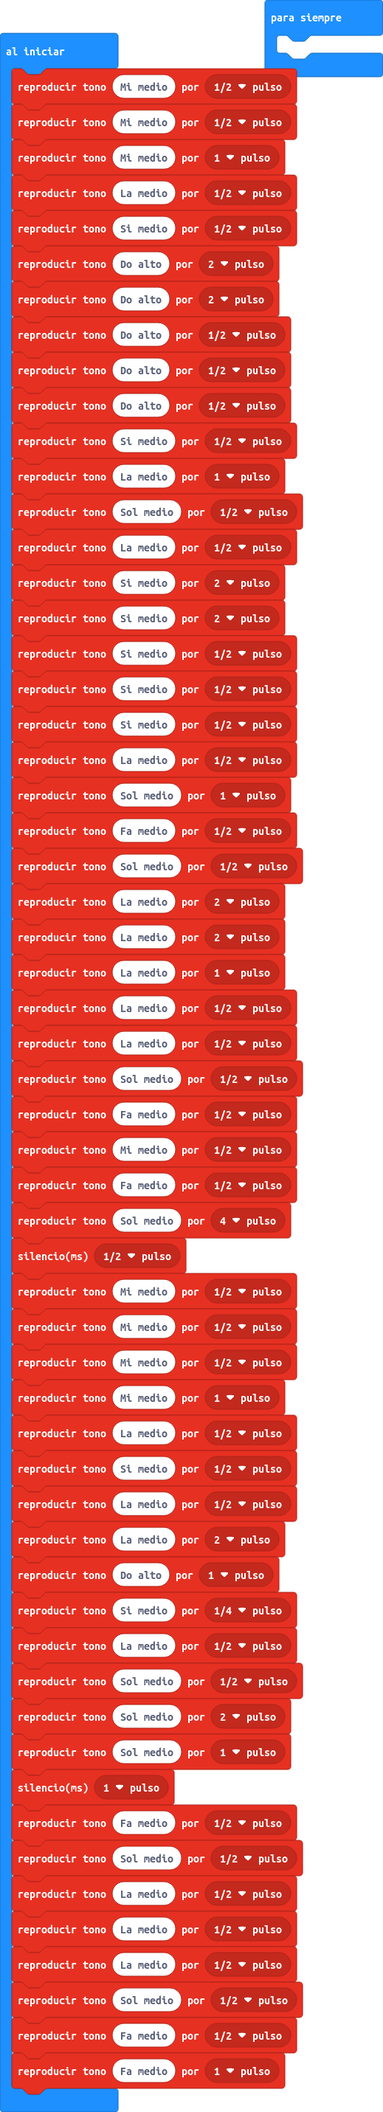
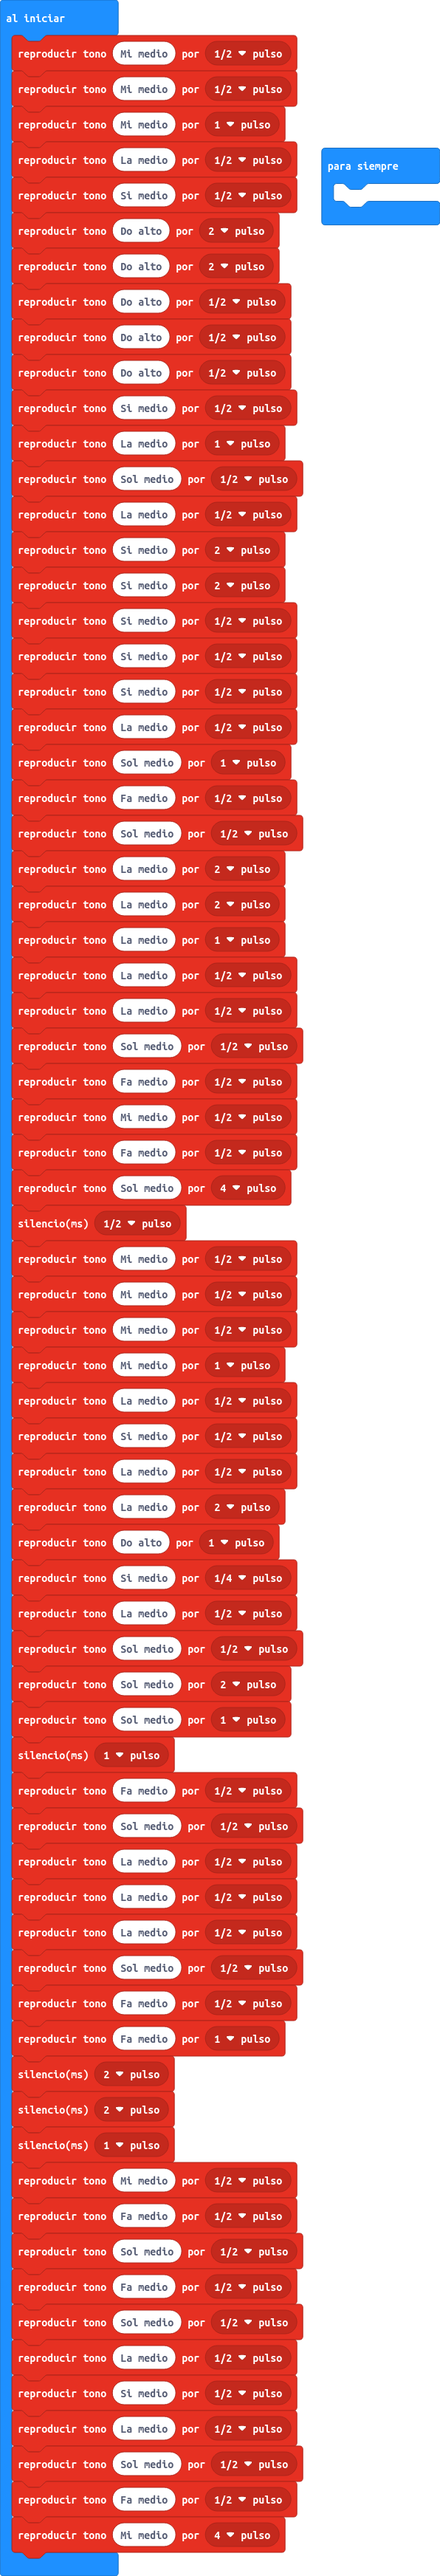
Actualizar pxt.json, main.blocks, main.ts

diff --git a/main.ts b/main.ts
@@ -55,6 +55,20 @@ music.playTone(440, music.beat(BeatFraction.Half))
 music.playTone(392, music.beat(BeatFraction.Half))
 music.playTone(349, music.beat(BeatFraction.Half))
 music.playTone(349, music.beat(BeatFraction.Whole))
+music.rest(music.beat(BeatFraction.Double))
+music.rest(music.beat(BeatFraction.Double))
+music.rest(music.beat(BeatFraction.Whole))
+music.playTone(330, music.beat(BeatFraction.Half))
+music.playTone(349, music.beat(BeatFraction.Half))
+music.playTone(392, music.beat(BeatFraction.Half))
+music.playTone(349, music.beat(BeatFraction.Half))
+music.playTone(392, music.beat(BeatFraction.Half))
+music.playTone(440, music.beat(BeatFraction.Half))
+music.playTone(494, music.beat(BeatFraction.Half))
+music.playTone(440, music.beat(BeatFraction.Half))
+music.playTone(392, music.beat(BeatFraction.Half))
+music.playTone(349, music.beat(BeatFraction.Half))
+music.playTone(330, music.beat(BeatFraction.Breve))
 basic.forever(function () {
 	
 })
